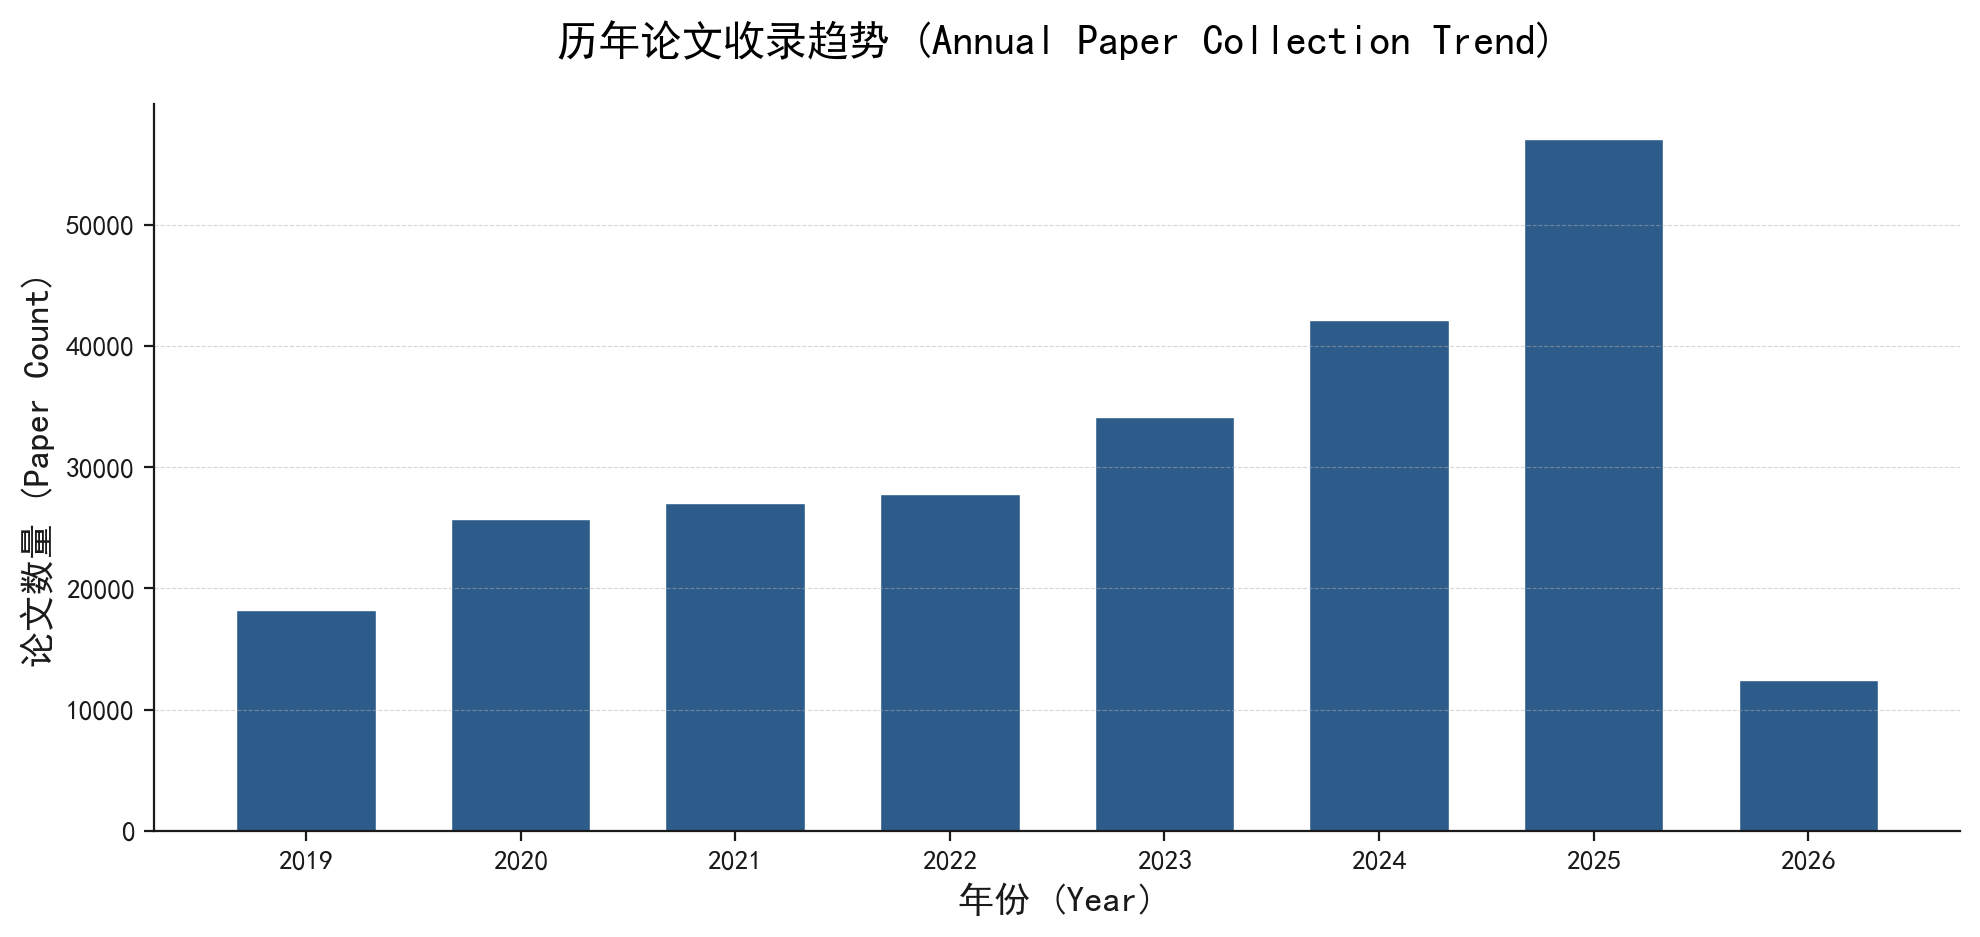
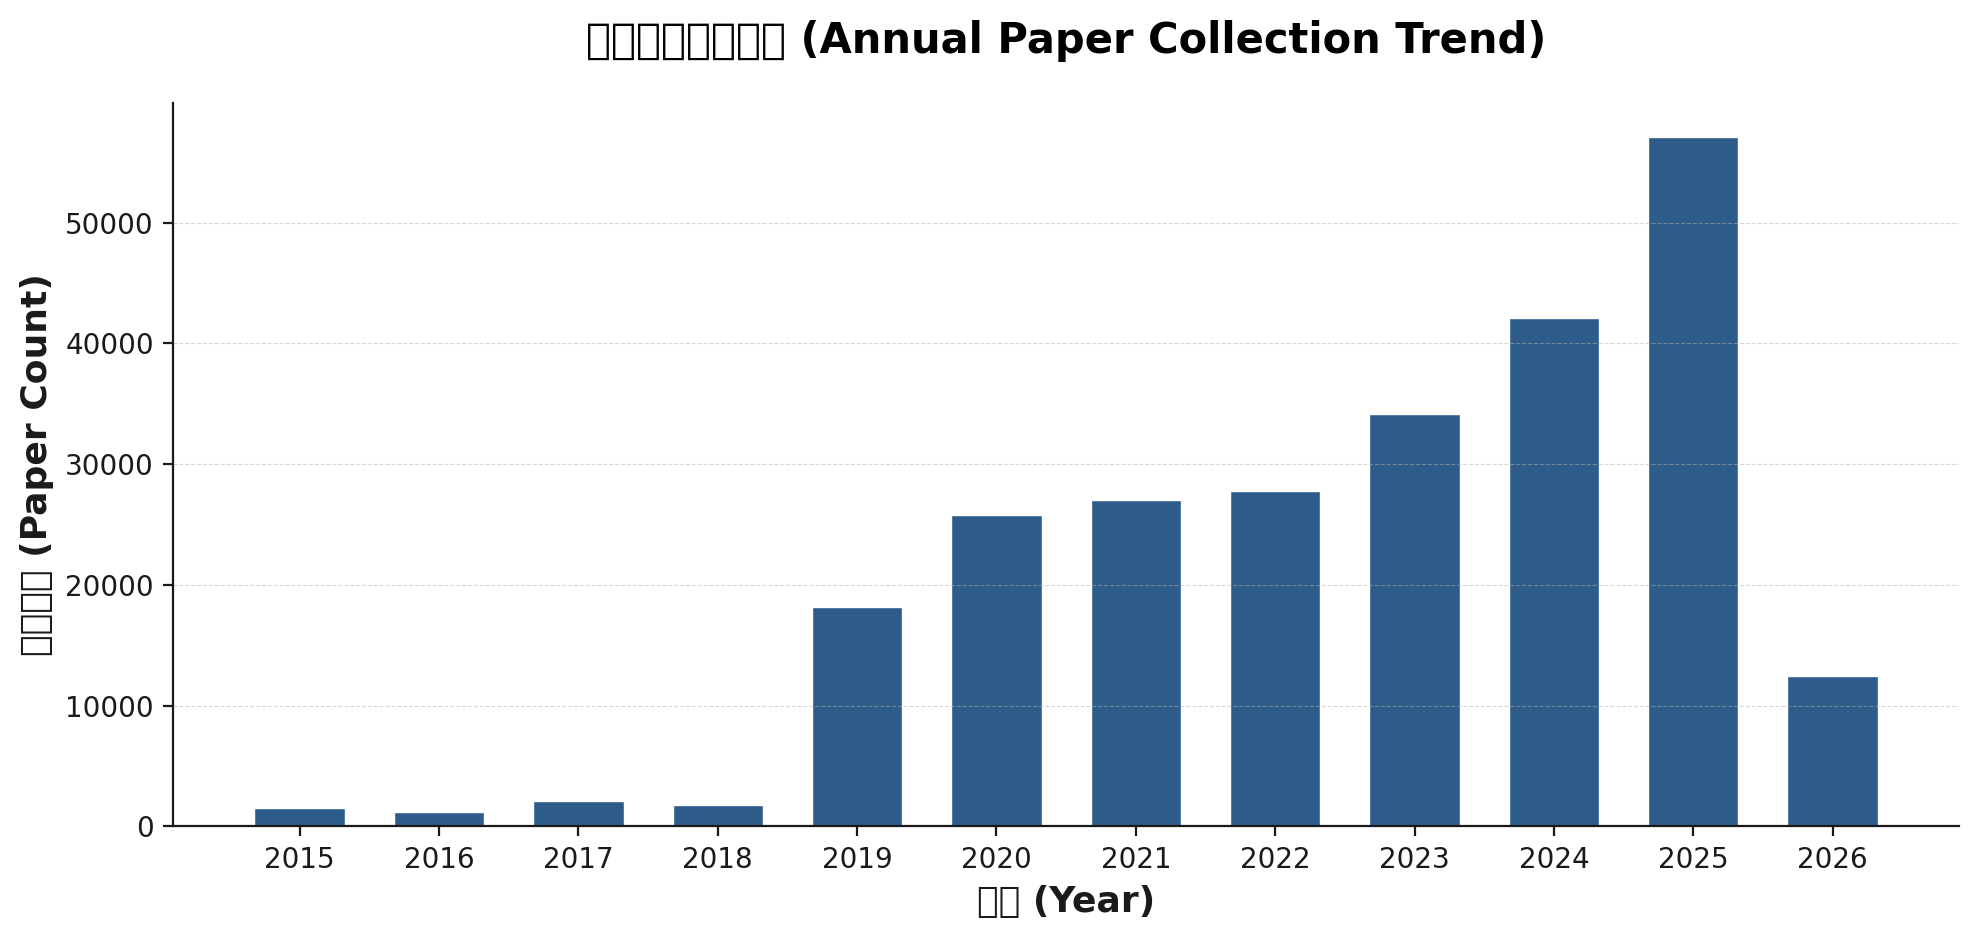
chore(auto): collect papers for new conferences

Changed region(s): [[0.0, 0.1238, 0.9864, 0.9904], [0.2774, 0.0, 0.8014, 0.0619]]

diff --git a/README.en.md b/README.en.md
@@ -18,15 +18,16 @@ PaperVault is a fully automated tool for collecting and retrieving academic pape
 <!-- recent-update-start -->
 
 - 📅 **Last Updated**: 2026-06-04
-- 🆕 **New Papers This Update**: 0
-- 📊 **Database Scale**: 244,581 papers / 57 publication series / 119,656 with abstracts
+- 🆕 **New Papers This Update**: 6,538
+- 📢 **New Conferences This Update**: 26
+- 📊 **Database Scale**: 251,119 papers / 57 publication series / 126,266 with abstracts
 
 <!-- recent-update-end -->
 
 ### Current Phase
 <!-- auto-summary-start -->
 
-- The database contains **240,000+** papers spanning 57+ top-tier conferences and journals across NLP, CV, ML, DM, DB, and Speech.
+- The database contains **250,000+** papers spanning 57+ top-tier conferences and journals across NLP, CV, ML, DM, DB, and Speech.
 
 <!-- auto-summary-end -->
 
@@ -39,11 +40,11 @@ PaperVault is a fully automated tool for collecting and retrieving academic pape
 <!-- stats-start -->
 
 <p align="center">
-  <img src="./pics/stats/stats_overview.png" alt="Statistics Overview" width="800" />
+  <img src="./pics/stats/stats_overview.png" alt="Statistics Overview" width="850" />
 </p>
 
 <p align="center">
-  <img src="./pics/stats/wordcloud.png" alt="Publication Series Word Cloud" width="800" />
+  <img src="./pics/stats/wordcloud.png" alt="Publication Series Word Cloud" width="900" />
 </p>
 
 <p align="center">
@@ -70,18 +71,18 @@ PaperVault is a fully automated tool for collecting and retrieving academic pape
 - **ICML** 2019-2025 (7 editions)
 - **JMLR** 2019-2025 (7 editions)
 - **MLSYS** 2019-2025 (7 editions)
-- **NIPS** 2019-2025 (7 editions)
+- **NIPS** 2015-2025 (11 editions)
 - **TNNLS** 2020-2025 (6 editions)
 
 </details>
 <details>
 <summary><b>Natural Language Processing</b> (6 series)</summary>
 
-- **ACL** 2019-2025 (7 editions)
-- **COLING** 2020-2025 (4 editions)
-- **EACL** 2021-2026 (4 editions)
-- **EMNLP** 2019-2025 (7 editions)
-- **NAACL** 2019-2025 (5 editions)
+- **ACL** 2015-2025 (11 editions)
+- **COLING** 2016-2025 (6 editions)
+- **EACL** 2017-2026 (5 editions)
+- **EMNLP** 2015-2025 (11 editions)
+- **NAACL** 2015-2025 (8 editions)
 - **TASLP** 2020-2024 (5 editions)
 
 </details>
@@ -89,9 +90,9 @@ PaperVault is a fully automated tool for collecting and retrieving academic pape
 <summary><b>Computer Vision</b> (9 series)</summary>
 
 - **BMVC** 2019-2024 (4 editions)
-- **CVPR** 2019-2026 (8 editions)
-- **ECCV** 2020-2024 (3 editions)
-- **ICCV** 2019-2025 (4 editions)
+- **CVPR** 2015-2026 (12 editions)
+- **ECCV** 2018-2024 (4 editions)
+- **ICCV** 2015-2025 (6 editions)
 - **IJCV** 2020-2025 (6 editions)
 - **MICCAI** 2019-2025 (7 editions)
 - **TIP** 2020-2025 (6 editions)

diff --git a/README.md b/README.md
@@ -18,15 +18,16 @@ PaperVault 是一个用于收集和检索人工智能领域学术论文的全自
 <!-- recent-update-start -->
 
 - 📅 **最近更新日期**: 2026-06-04
-- 🆕 **本次新增论文**: 0 篇
-- 📊 **数据库规模**: 244,581 篇论文 / 57 个刊物系列 / 119,656 篇含摘要
+- 🆕 **本次新增论文**: 6,538 篇
+- 📢 **本次新增会议**: 26 个
+- 📊 **数据库规模**: 251,119 篇论文 / 57 个刊物系列 / 126,266 篇含摘要
 
 <!-- recent-update-end -->
 
 ### 当前阶段
 <!-- auto-summary-start -->
 
-- 数据库已收录 **240,000+** 篇论文，覆盖 NLP、CV、ML、DM、DB、Speech 等 57+ 个顶级会议与期刊。
+- 数据库已收录 **250,000+** 篇论文，覆盖 NLP、CV、ML、DM、DB、Speech 等 57+ 个顶级会议与期刊。
 
 <!-- auto-summary-end -->
 
@@ -39,11 +40,11 @@ PaperVault 是一个用于收集和检索人工智能领域学术论文的全自
 <!-- stats-start -->
 
 <p align="center">
-  <img src="./pics/stats/stats_overview.png" alt="统计概览" width="800" />
+  <img src="./pics/stats/stats_overview.png" alt="统计概览" width="850" />
 </p>
 
 <p align="center">
-  <img src="./pics/stats/wordcloud.png" alt="刊物系列词云" width="800" />
+  <img src="./pics/stats/wordcloud.png" alt="刊物系列词云" width="900" />
 </p>
 
 <p align="center">
@@ -70,18 +71,18 @@ PaperVault 是一个用于收集和检索人工智能领域学术论文的全自
 - **ICML** 2019-2025 (7 届)
 - **JMLR** 2019-2025 (7 届)
 - **MLSYS** 2019-2025 (7 届)
-- **NIPS** 2019-2025 (7 届)
+- **NIPS** 2015-2025 (11 届)
 - **TNNLS** 2020-2025 (6 届)
 
 </details>
 <details>
 <summary><b>自然语言处理</b> (6 个系列)</summary>
 
-- **ACL** 2019-2025 (7 届)
-- **COLING** 2020-2025 (4 届)
-- **EACL** 2021-2026 (4 届)
-- **EMNLP** 2019-2025 (7 届)
-- **NAACL** 2019-2025 (5 届)
+- **ACL** 2015-2025 (11 届)
+- **COLING** 2016-2025 (6 届)
+- **EACL** 2017-2026 (5 届)
+- **EMNLP** 2015-2025 (11 届)
+- **NAACL** 2015-2025 (8 届)
 - **TASLP** 2020-2024 (5 届)
 
 </details>
@@ -89,9 +90,9 @@ PaperVault 是一个用于收集和检索人工智能领域学术论文的全自
 <summary><b>计算机视觉</b> (9 个系列)</summary>
 
 - **BMVC** 2019-2024 (4 届)
-- **CVPR** 2019-2026 (8 届)
-- **ECCV** 2020-2024 (3 届)
-- **ICCV** 2019-2025 (4 届)
+- **CVPR** 2015-2026 (12 届)
+- **ECCV** 2018-2024 (4 届)
+- **ICCV** 2015-2025 (6 届)
 - **IJCV** 2020-2025 (6 届)
 - **MICCAI** 2019-2025 (7 届)
 - **TIP** 2020-2025 (6 届)
